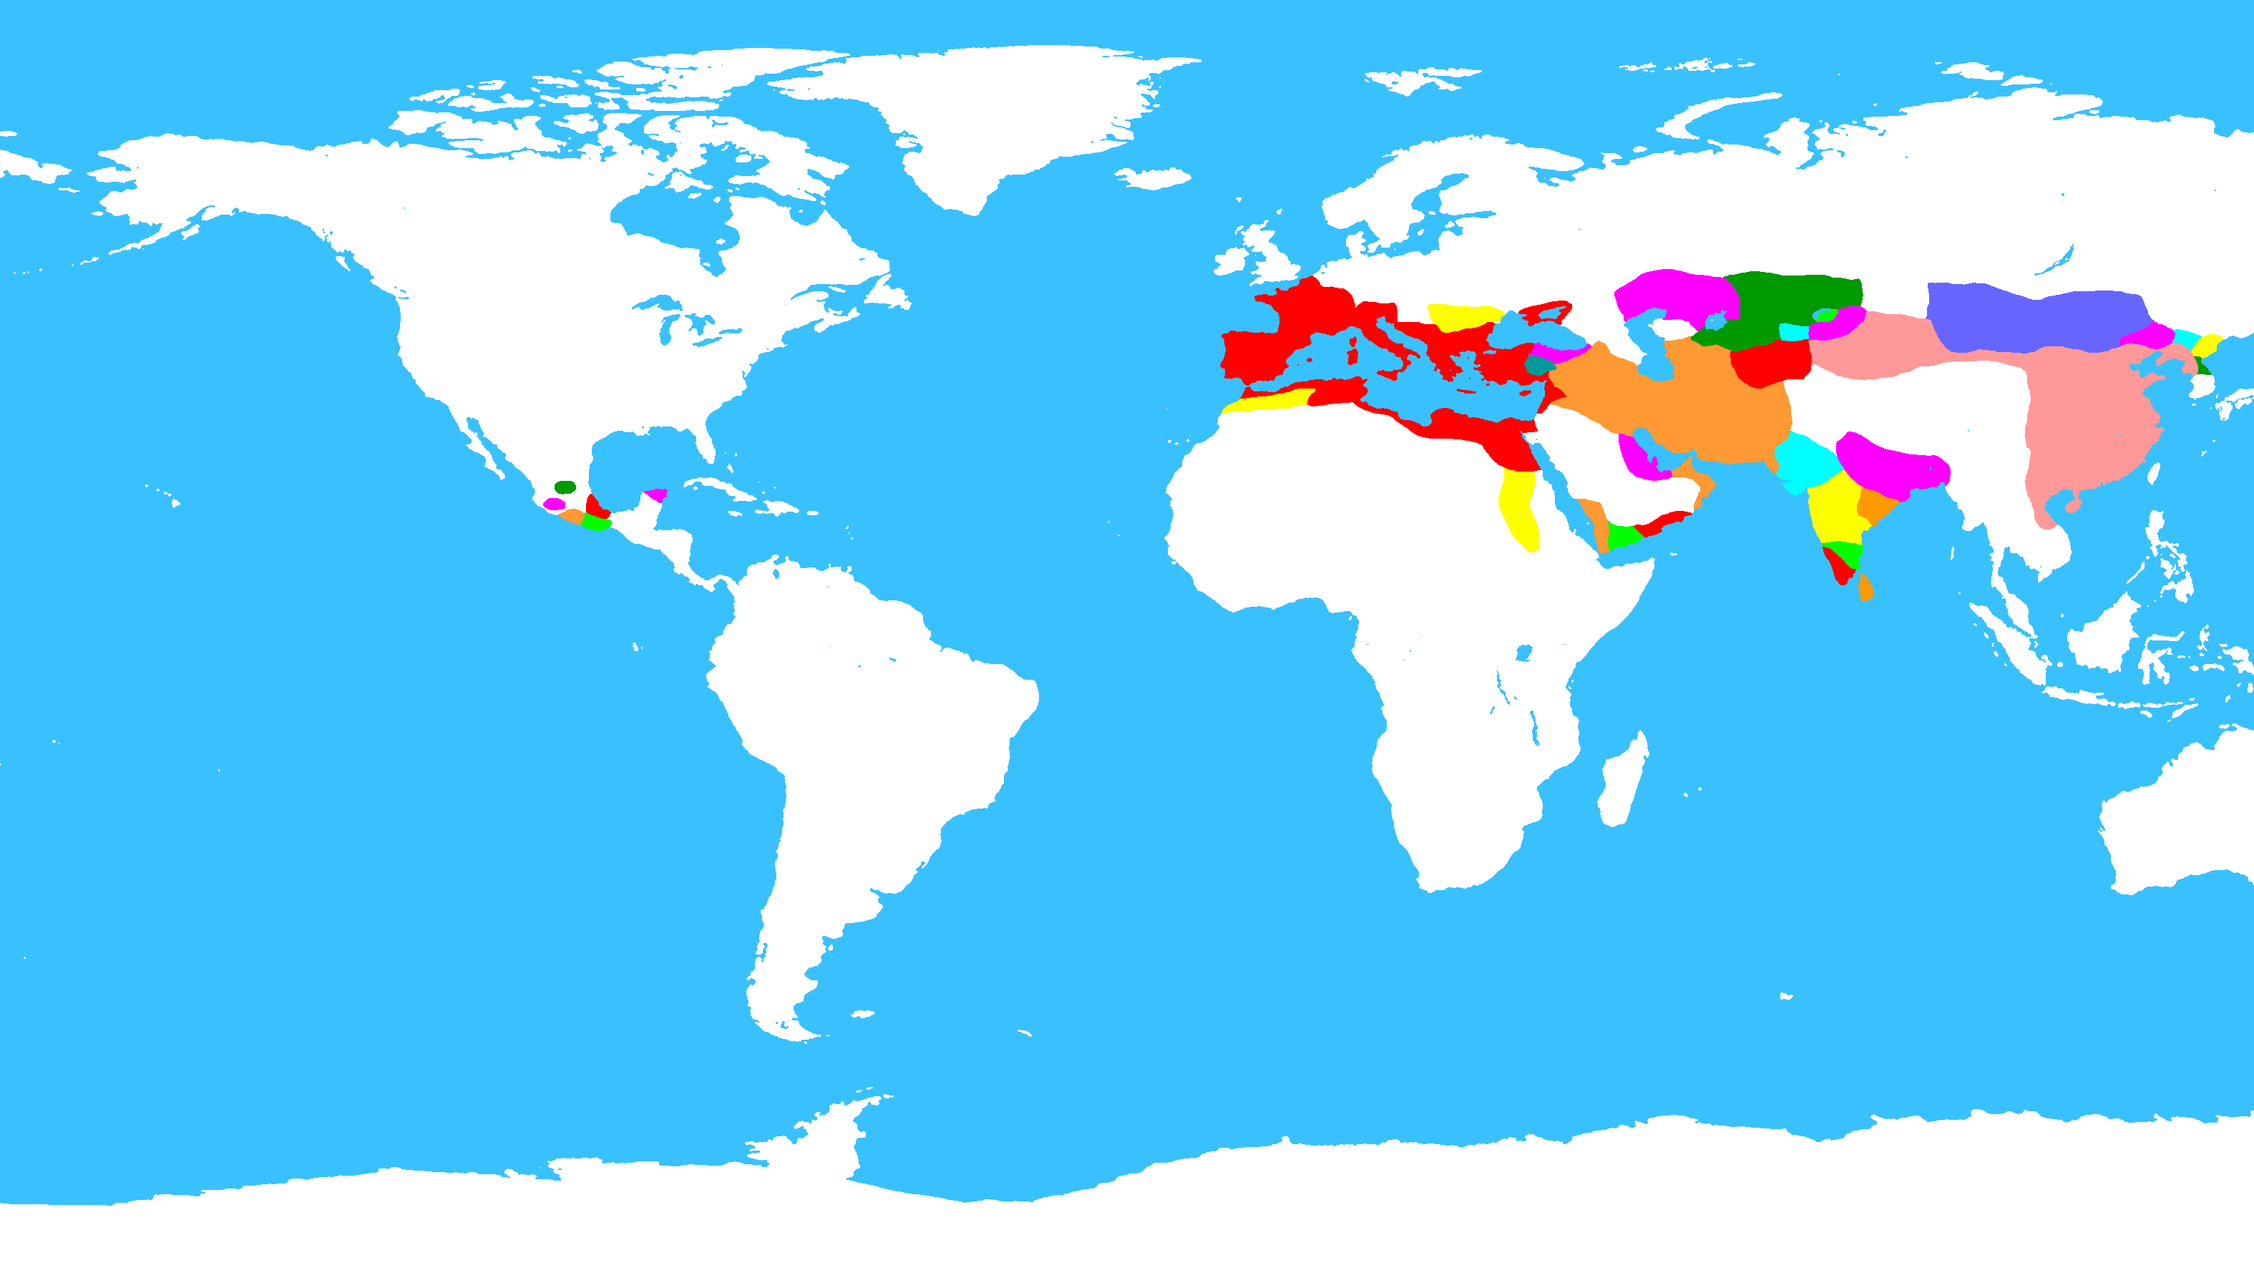
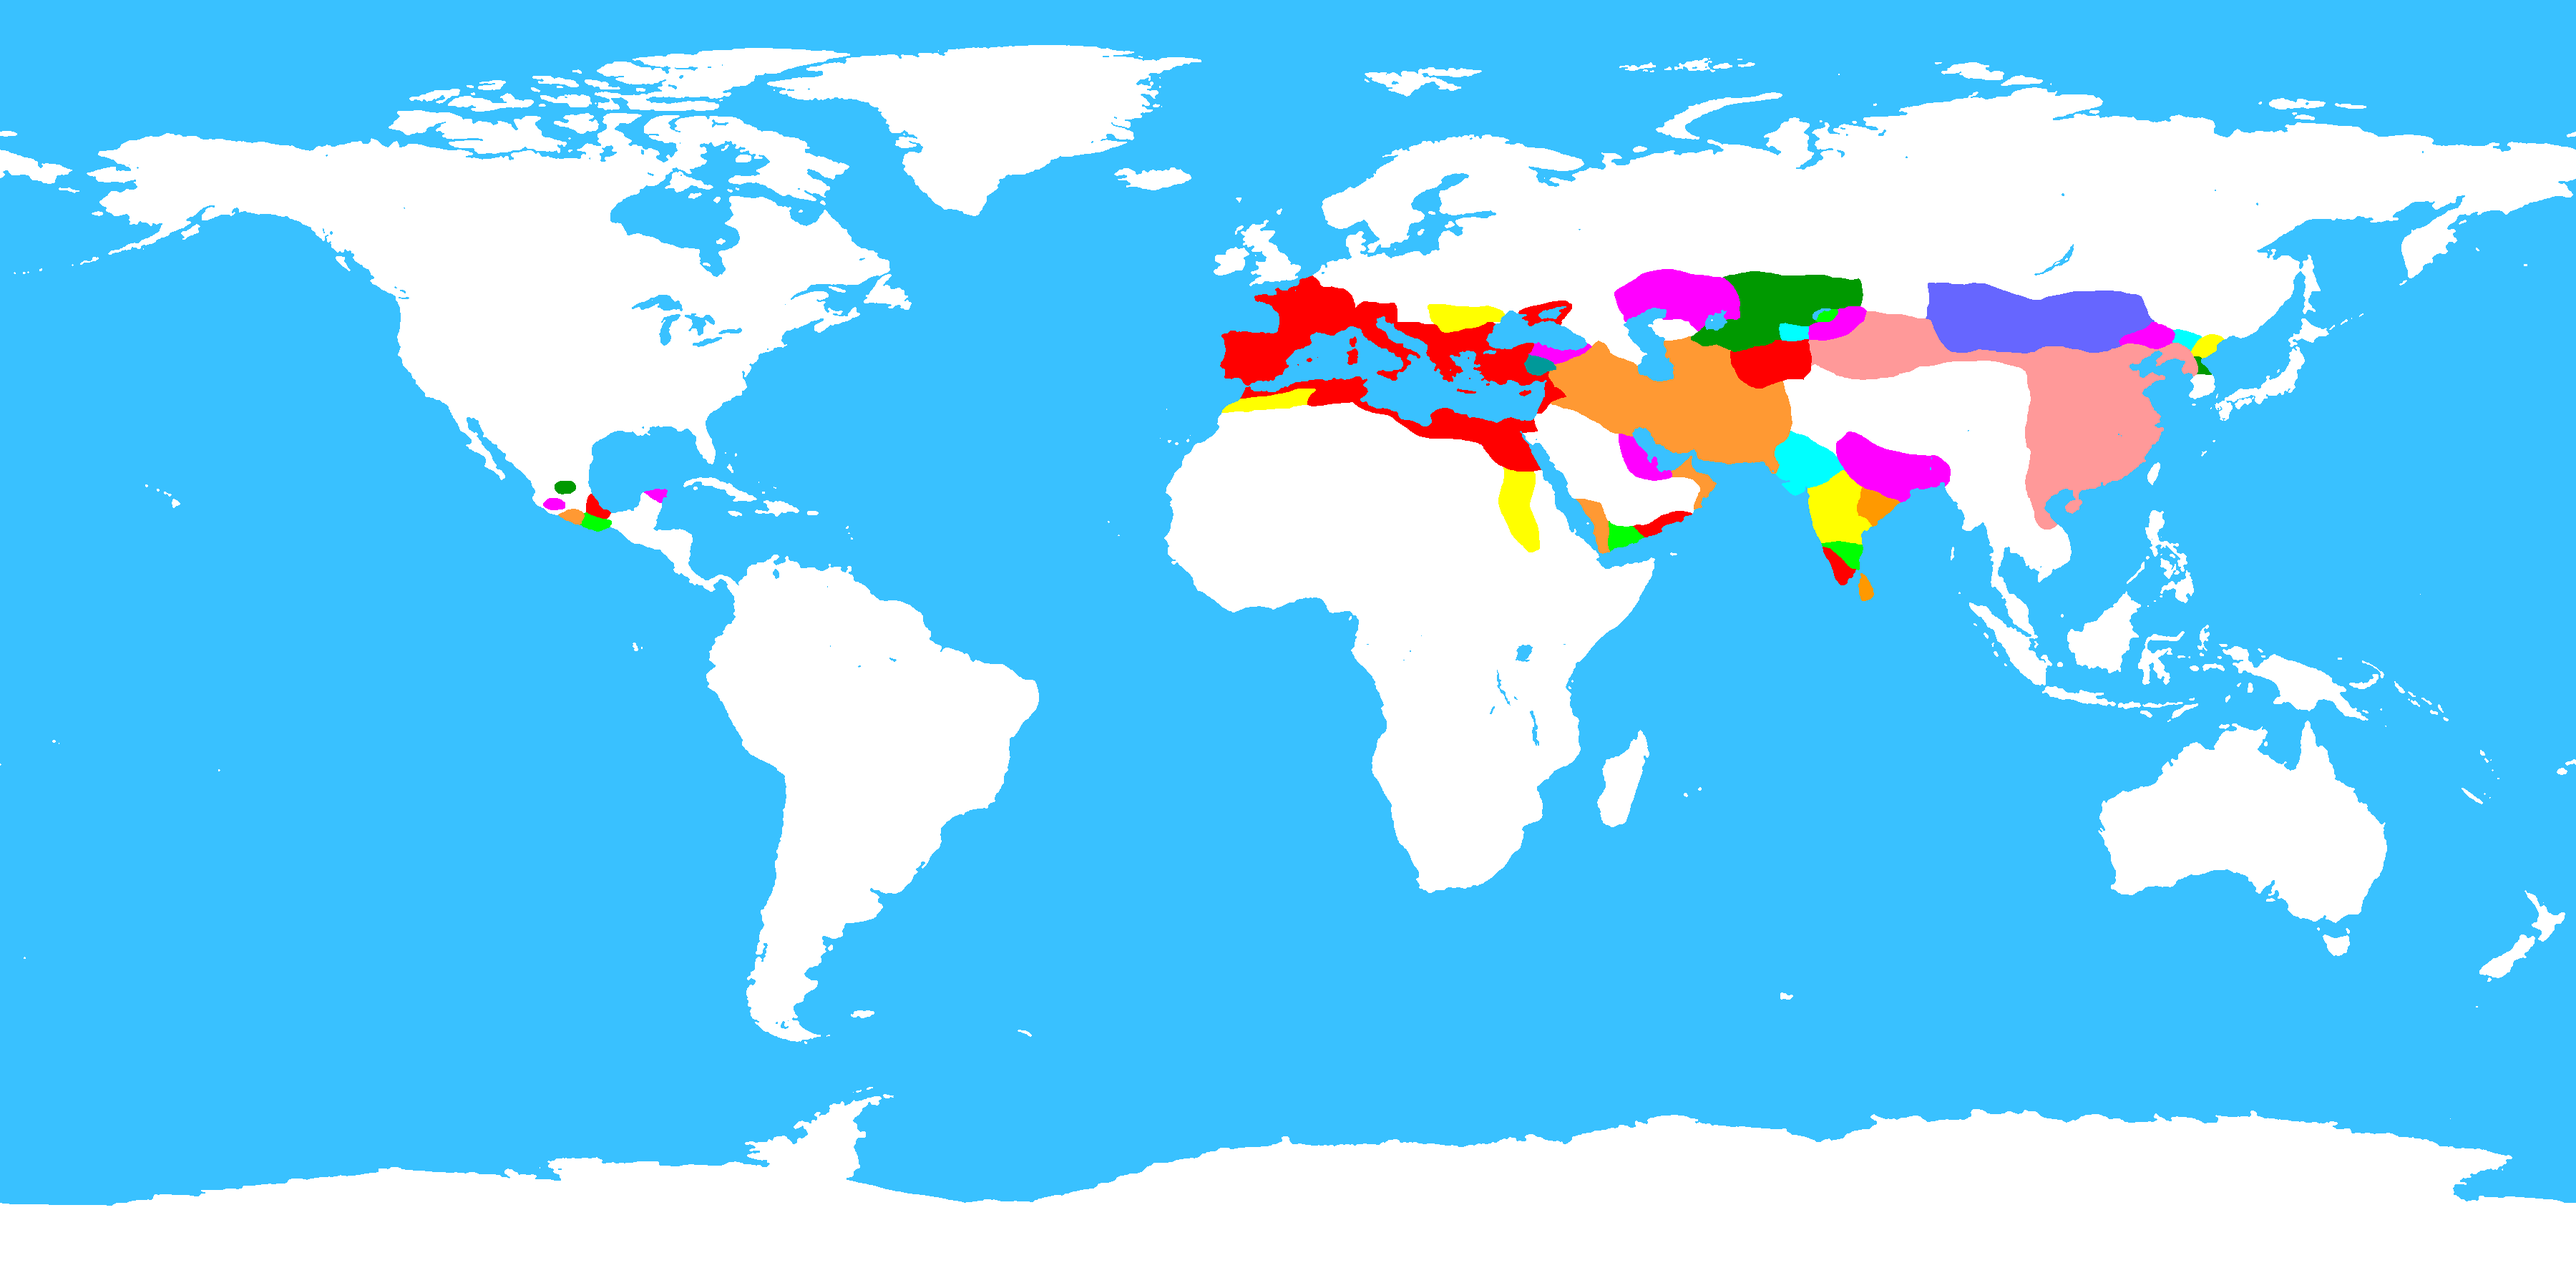
a

diff --git a/twha_canvas_function/js/twha.js b/twha_canvas_function/js/twha.js
@@ -1,107 +1,107 @@
 (function(fn)
 {
-    if (document.readyState !== 'loading'){
-        fn();
-    } else {
-        document.addEventListener('DOMContentLoaded', fn);
-    }
+  if (document.readyState !== 'loading') {
+    fn();
+  } else {
+    document.addEventListener('DOMContentLoaded', fn);
+  }
 })(function()
 {
-  var glob={ 
+  var glob = {
     pan_target: null,
   }
-	var screen_width = 0;
-	var screen_height = 0;
-	var resize_timer = -1;
+  var screen_width = 0;
+  var screen_height = 0;
+  var resize_timer = -1;
 
-	var zoom_bar = new ZoomBar();
-	var lang_button = new LangButton();
-	var year_text = new YearText();
-	var year_bar = new YearBar(glob);
-	var map = new Map(glob);
+  var zoom_bar = new ZoomBar();
+  var lang_button = new LangButton();
+  var year_text = new YearText();
+  var year_bar = new YearBar(glob);
+  var map = window.map = new Map(glob);
 
-	data.year_clamp = function()
-	{
-		if (this.year < -4000) {
-			this.year = -4000;
-		} else if (this.year == 0) {
-			this.year = 1;
-		} else if (this.year > MAX_YEAR) {
-			this.year = MAX_YEAR;
-		}
-	};
+  data.year_clamp = function()
+  {
+    if (this.year < -4000) {
+      this.year = -4000;
+    } else if (this.year == 0) {
+      this.year = 1;
+    } else if (this.year > MAX_YEAR) {
+      this.year = MAX_YEAR;
+    }
+  };
 
-	function resize()
-	{
-		var body = document.getElementsByTagName('body')[0];
+  function resize()
+  {
+    var body = document.getElementsByTagName('body')[0];
 
-		screen_width = body.offsetWidth;
-		screen_height = body.offsetHeight;
-		var canbas_h = screen_height - year_bar.SIZE;
+    screen_width = body.offsetWidth;
+    screen_height = body.offsetHeight;
+    var canbas_h = screen_height - year_bar.SIZE;
 
-		map.set_size(screen_width, canbas_h);
+    map.set_size(screen_width, canbas_h);
 
-		year_bar.set_top(canbas_h);
-		year_bar.set_width(screen_width - year_bar.SIZE * 2);
+    year_bar.set_top(canbas_h);
+    year_bar.set_width(screen_width - year_bar.SIZE * 2);
 
-		map.update();
-	}
+    map.update();
+  }
 
-	year_bar.onchanged(function()
-	{
-		year_text.update();
-		map.update();
-	});
-	lang_button.onchanged(function()
-	{
-		year_text.update();
-		map.update_style();
-	});
-	year_text.onchanged(function()
-	{
-		year_bar.update();
-		map.update();
-	});
-	zoom_bar.onchanged(function()
-	{
-		map.update();
-	});
+  year_bar.onchanged(function()
+  {
+    year_text.update();
+    map.update();
+  });
+  lang_button.onchanged(function()
+  {
+    year_text.update();
+    map.update_style();
+  });
+  year_text.onchanged(function()
+  {
+    year_bar.update();
+    map.update();
+  });
+  zoom_bar.onchanged(function()
+  {
+    map.update();
+  });
 
-	window.addEventListener('resize', function()
-	{
-        if (resize_timer !== -1) {
-            clearTimeout(resize_timer);
-        }
+  window.addEventListener('resize', function()
+  {
+    if (resize_timer !== -1) {
+      clearTimeout(resize_timer);
+    }
 
-        resize_timer = setTimeout(function() {
-            resize_timer = -1;
-			resize();
-        }, 250);
-	});
+    resize_timer = setTimeout(function() {
+      resize_timer = -1;
+      resize();
+    }, 250);
+  });
 
-	(function(callback)
-	{
-		if (window.addEventListener) {
-			window.addEventListener('DOMMouseScroll', callback, false);
-			window.addEventListener('mousewheel', callback, false);
-		}
-	})(function(e)
-	{
-		let delta = e.wheelDelta ? e.wheelDelta : e.deltaY ? -e.deltaY : -e.detail;
-		if (delta > 0) {
-			if (data.zoom < 4) {
-				data.zoom++;
-				zoom_bar.update();
-				map.update();
-			}
-		} else if (delta < 0) {
-			if (data.zoom > 0) {
-				data.zoom--;
-				zoom_bar.update();
-				map.update();
-			}
-		}
-	});
+  (function(callback)
+  {
+    if (window.addEventListener) {
+      window.addEventListener('DOMMouseScroll', callback, false);
+      window.addEventListener('mousewheel', callback, false);
+    }
+  })(function(e)
+  {
+    let delta = e.wheelDelta ? e.wheelDelta : e.deltaY ? -e.deltaY : -e.detail;
+    if (delta > 0) {
+      if (data.zoom < 4) {
+        data.zoom++;
+        zoom_bar.update();
+        map.update();
+      }
+    } else if (delta < 0) {
+      if (data.zoom > 0) {
+        data.zoom--;
+        zoom_bar.update();
+        map.update();
+      }
+    }
+  });
 
-	resize();
+  resize();
 });

diff --git a/twha_canvas_function/index.html b/twha_canvas_function/index.html
@@ -29,19 +29,29 @@
     const cvs = document.createElement('canvas')
     const ctx = cvs.getContext('2d')
     const tile_size = 450
-    const tile_x_count = 7
+    const tile_x_count = 8
     const tile_y_count = 4
     cvs.width = tile_x_count * tile_size
     cvs.height = tile_y_count * tile_size
     cvs.style.position = 'fixed'
+    // cvs.style.left = '100px'
     cvs.style.left = '0px'
     cvs.style.top = '0px'
     cvs.style.zIndex = '99999'
-    cvs.style.width = '500px'
+    // cvs.style.width = '500px'
+    cvs.style.width = '100%'
     cvs.style.maxWidth = '100%'
-    cvs.style.pointerEvents = 'none'
+    // cvs.style.pointerEvents = 'none'
     window.onload = function() {
       document.body.appendChild(cvs)
+    }
+
+    function draw_all() {
+      for (let x = 0; x < tile_x_count; x++) {
+        for (let y = 0; y < tile_y_count; y++) {
+          map.getMapTertPart(x, y)
+        }
+      }
     }
   </script>
   <script type="application/x-javascript" src="js/era.js?v=2"></script>

diff --git a/twha_canvas_function/js/Map.js b/twha_canvas_function/js/Map.js
@@ -60,7 +60,8 @@ function Map(glob)
 
   function getMapTertPart(i, j)
   {
-    ctx.clearRect(0, 0, cvs.width, cvs.height)
+    // ctx.clearRect(0, 0, cvs.width, cvs.height)
+    ctx.fillRect(0, 0, cvs.width, cvs.height)
     // debugger
     var idx = i + j * MAP_X;
     var mp = mpTertCache[idx];
@@ -71,10 +72,12 @@ function Map(glob)
     }
     mp.setAttribute('src', '../twha/t/' + i + j + '/' + getMapTertYear(data.year, i, j) + '.png');
     mp.onload = function() {
-      ctx.drawImage(mp, i * tile_size, j * tile_size)
+      ctx.drawImage(mp, i * (tile_size), j * (tile_size))
     }
     return mp;
   }
+
+  this.getMapTertPart = getMapTertPart
 
   function update_map()
   {
